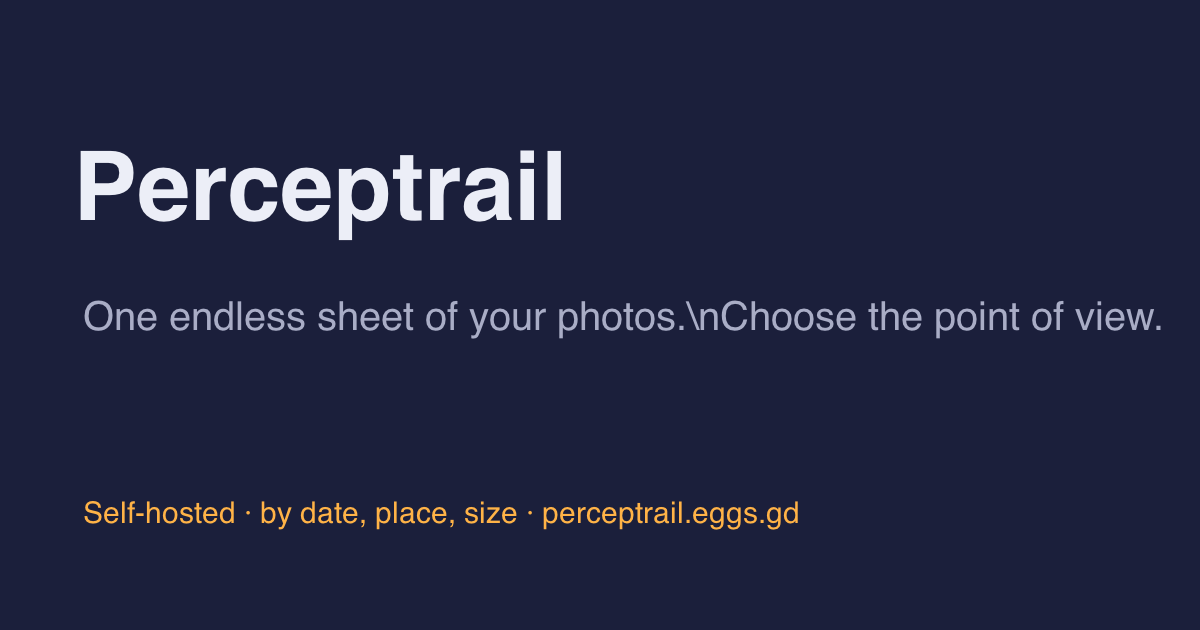
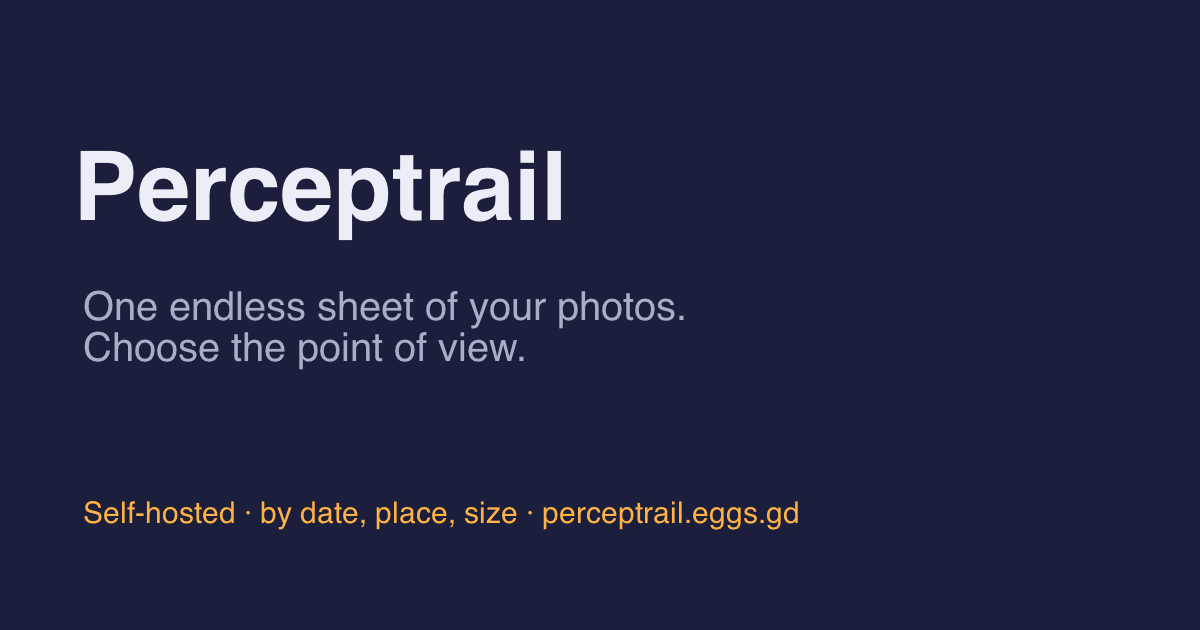
The landing's link preview: a real line break, not "\n" (#69)

Changed region(s): [[0.0617, 0.4524, 0.9558, 0.573]]

diff --git a/landing/src/routes/+page.svelte b/landing/src/routes/+page.svelte
@@ -8,7 +8,8 @@
     const description = 'One endless sheet of your photos, ordered by date, place or size. Switch the view on any photo and stay on it. Self-hosted, reads your library only.';
     const here = installs[channel];
     const url = origin + here.path;
-    const image = url + 'og.png';
+    // By version: a chat keeps a link's preview by the image's address
+    const image = `${url}og.png?v=${version}`;
 
     // The install shown: this build's channel first, the other one a click away
     let shown = $state<Channel>(channel);

diff --git a/_sb/docs/roadmap.md b/_sb/docs/roadmap.md
@@ -76,7 +76,7 @@ One line each; the details are in the READMEs and the PRs.
   migrations it had nothing to do for. · #62 `VERSION` 0.2 · #63 the release PR's
   CodeQL alerts fixed before the release. · #64 the demo's tag stripping without a
   regex, as CodeQL reads it. · #65 a photo broken, then repaired, comes back as its
-  own item. · #66 the layout worker tested as its page and the sync see it. · #67 the viewer's `<picture>` sources tested. · #68 the README credits HomeGallery, its inspiration.
+  own item. · #66 the layout worker tested as its page and the sync see it. · #67 the viewer's `<picture>` sources tested. · #68 the README credits HomeGallery, its inspiration. · #69 the landing's link preview without a literal `\n`.
 
 ## 0.2.0 — the first release
 

diff --git a/landing/README.md b/landing/README.md
@@ -41,6 +41,8 @@ Cookie settings). English only for now.
 
 What the page shows of the gallery — a recording of the perceptors over a library of
 public photos — is made by [`demo/`](demo/README.md).
+The link preview (`static/og.png`) is made by [`og.sh`](og.sh); its address carries the
+version, so a chat that keeps a link's preview shows the new one after a release.
 
 The tests are the pure code's: the install commands per channel and the consent's
 state.
